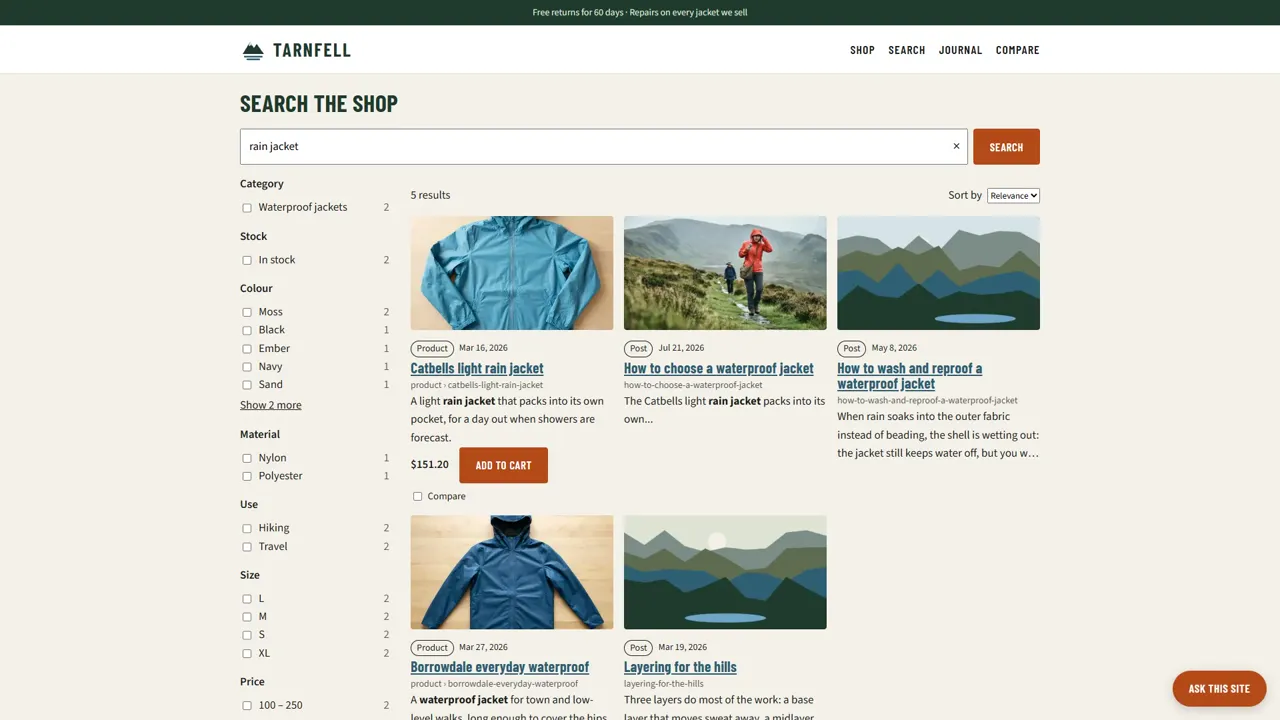
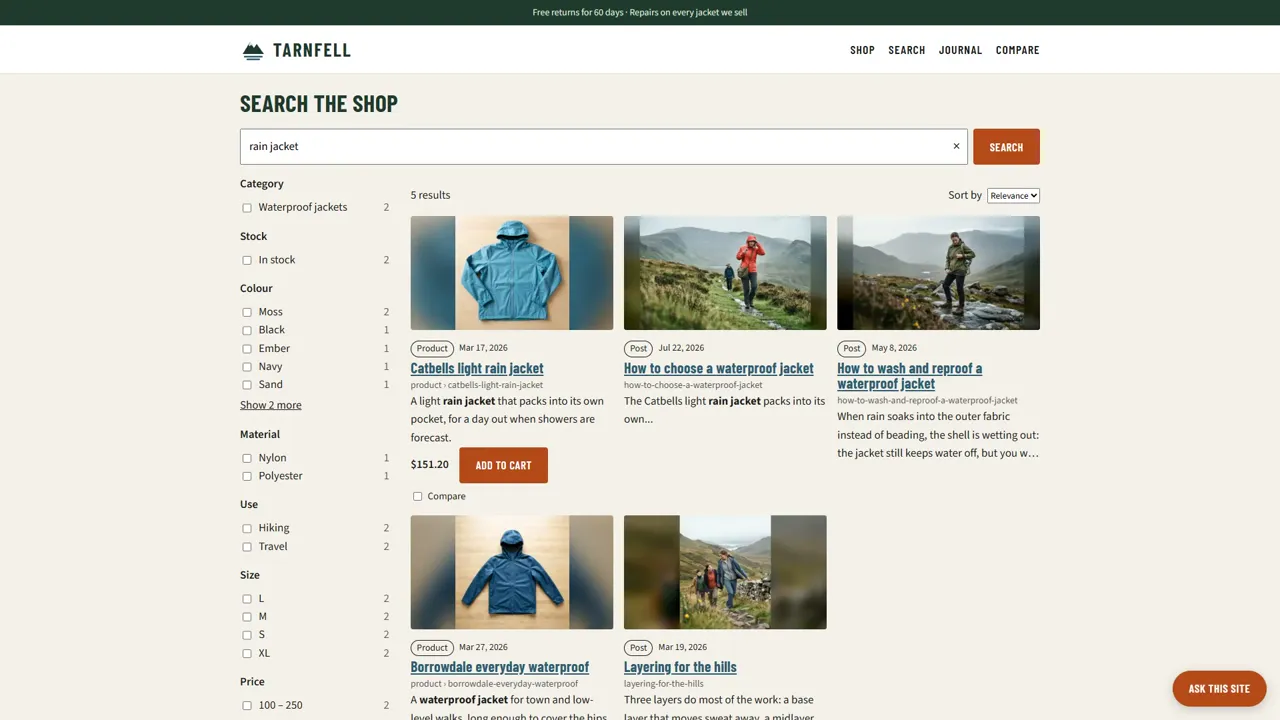
docs(site): the WordPress page's chapter stills show the demo store's photos, and file the duplicate Compare button met in the vertical clip (D302)
- Addressed the issue of duplicate "Compare" buttons appearing on the WordPress page when both the search block and Ask the catalog block are present.
- Updated the documentation to clarify the expected behavior of a single comparison bar per page, enhancing user experience by reducing clutter.
- Added a specification for the implementation of the new comparison button behavior, ensuring it functions correctly across different screen sizes.
- Replaced the chapter still images with updated versions to better reflect the current demo store's offerings.

Changed region(s): [[0.3125, 0.275, 0.8125, 0.4583], [0.3125, 0.7028, 0.6562, 0.8861]]

diff --git a/docs/IMPROVEMENTS.md b/docs/IMPROVEMENTS.md
@@ -194,6 +194,26 @@ that did not run.
 theme's own spacing changed, the baselines are retaken and the classic theme is pinned
 like Ollie; a full `npx playwright test` runs every variant to the end.
 
+### XLIX.144 One comparison bar per page (D302)
+
+**What happens.** Seen on 2026-11-04 in the vertical clip of chapter 5
+(`story-chapter-5-vertical.en.mp4`, recorded by `npm run e2e:story:vertical` on Tarnfell
+at 432 CSS pixels). After the shopper ticks three products, "Compare 3 products" shows
+twice: once under the search block's results and once inside the Ask the catalog block
+just below it. The search block (D200) and the copilot each render a compare bar, and
+both read the same per-tab comparison list, so their counts always agree and the two
+buttons do the same thing. At desktop width they sit far apart; at phone width they
+stack a few lines from each other.
+
+**What it should do.** One compare bar per page while the list has products: the first
+block on the page that offers comparison shows it, and the others leave it out, or the
+bar lives once at page level (a sticky bar at the foot of the viewport on a phone).
+Ticking a product in either block still adds it to the same list.
+
+**Done when.** A page holding both blocks shows one Compare button, a spec on the woo
+project ticks products in each block and finds one button with the combined count, and
+the vertical clip of chapter 5 shows it once.
+
 ## L The documentation area
 
 The end-user documentation moves from vigletdocs into this repository, as an Astro +

diff --git a/docs/ROADMAP.md b/docs/ROADMAP.md
@@ -119,6 +119,7 @@ This track has no remaining pending tasks.
 - 📋 **D282** (deps: D276 ✅, D278 ✅, English video published on YouTube by Alexandre) **The video is not on the site, the docs, the README or the release** — A release asset downloads instead of streaming, so the pages embed YouTube and carry the transcript that search reads. → §XLIX.125
 - 📋 **D287** (deps: Viglet Turing T1133: copilot reads a partitioned key's partition) **On an SN site shared by several WordPress sites, Build my kit and the copilot stage other sites' products** — Search filters by site key, the generative calls do not, so a kit can sell another site's stock. → §XLIX.128
 - 📋 **D301** (deps: —) **Under Twenty Twenty-One and Ollie each search result renders about 25 px taller than its screenshot baseline** — The theme variants fail on every run, and a failure stops the chain, so the Portuguese and shop specs only run when started by hand. → §XLIX.143
+- 📋 **D302** (deps: —) **A page with the search block and Ask the catalog shows the same Compare button twice, one per block** — Both bars read one comparison list, so a shopper sees a duplicate control, stacked close together at phone width. → §XLIX.144
 
 ## Track T — Releases and links match what the site describes
 
